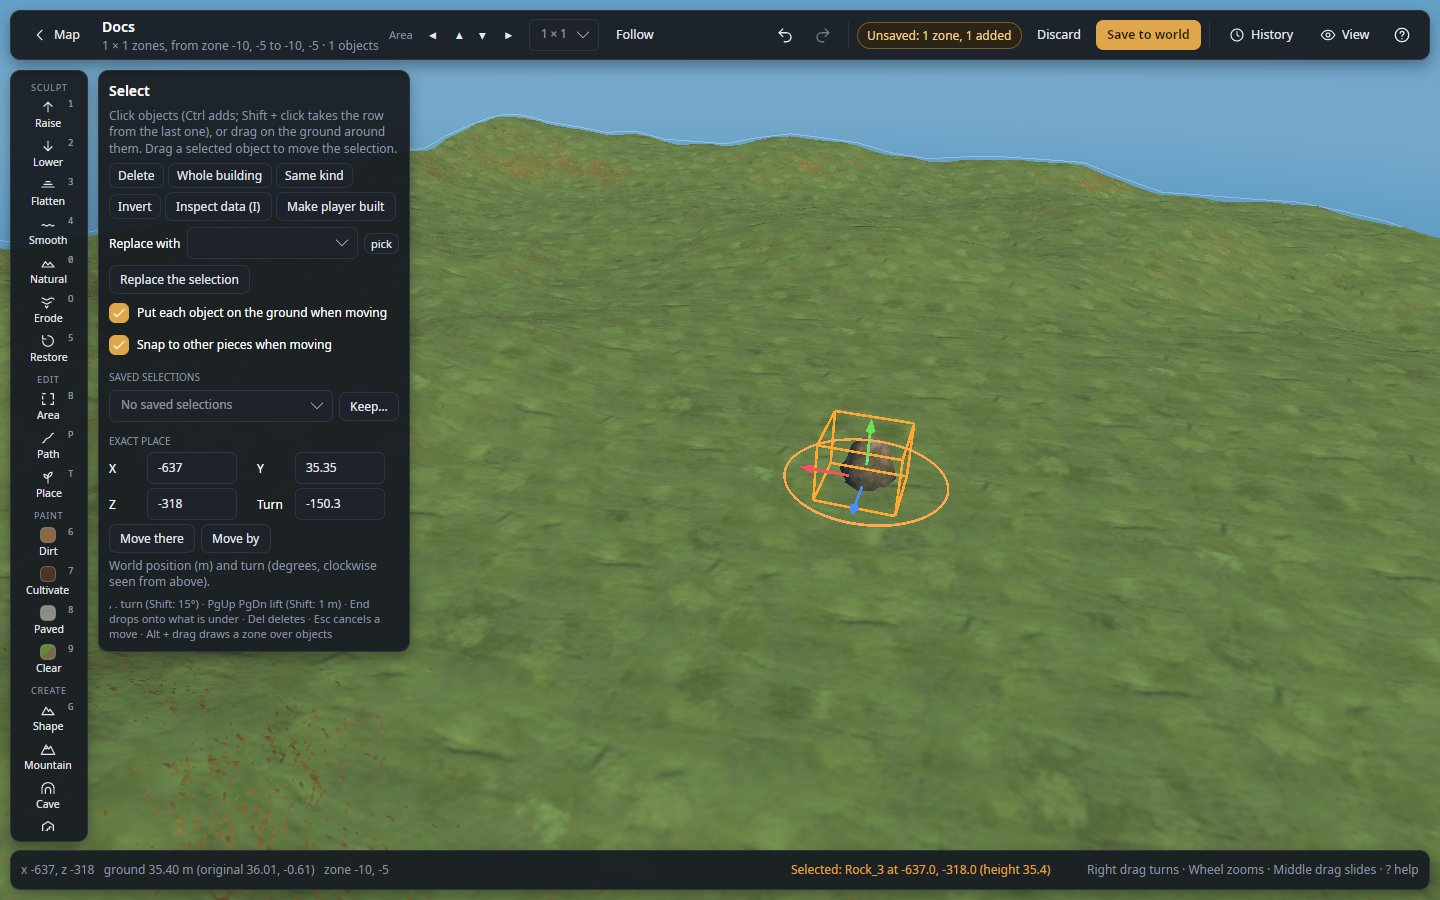
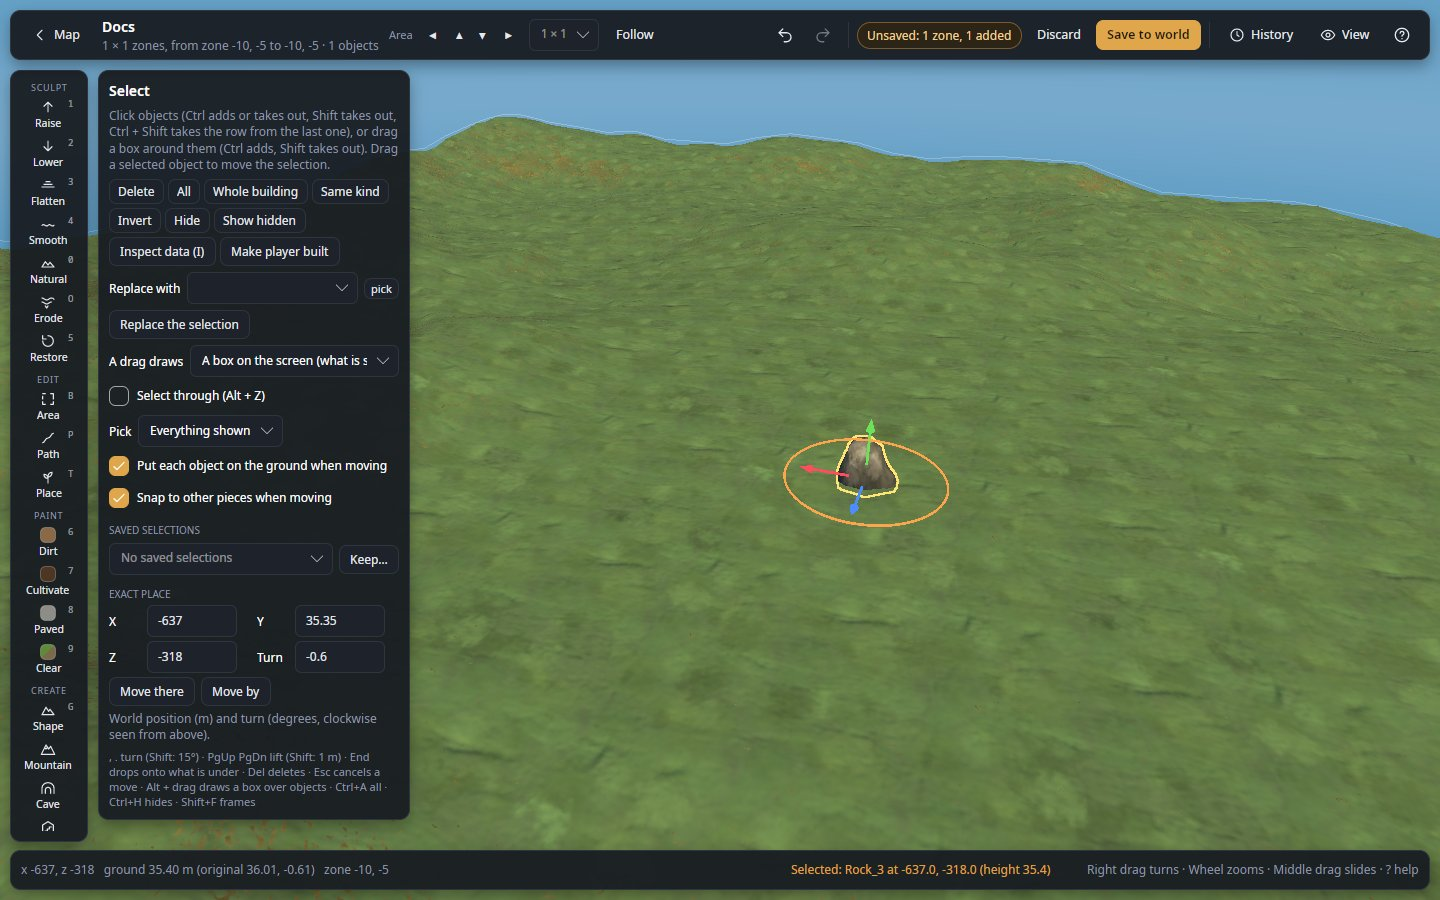
Document the reworked Select tool with new pictures (#473)
* Document the reworked Select tool with new pictures

Box, Select through, Pick, hiding and outline pictures replace the boxed ones; the panel's key hint names the box and the new keys.

* Run CI again (a New world test sharing global rules failed the last run)

Changed region(s): [[0.0625, 0.1244, 0.3125, 0.9333], [0.5625, 0.4356, 0.6562, 0.5911], [0.25, 0.4356, 0.2812, 0.4667]]

diff --git a/tools/DocsScreenshots/Scenes.Objects.cs b/tools/DocsScreenshots/Scenes.Objects.cs
@@ -251,15 +251,89 @@ public sealed partial class Scenes
         e.Shot(Out("select-building.jpg"), keepMessage: true);
     }
 
+    /// <summary>A hut with a chest and a fire pit inside, seen from above at an angle: the Select tool on.</summary>
+    private void HutInView(Editor e)
+    {
+        Bare(e, unsaved: false);
+        Level(e);
+        Hut(e, P(-6, -4), P(6, 4));
+        // On the floor: placed after it (Place puts them on what is under them), between its pieces' middles (One
+        // at a time keeps 0.3 m from any object).
+        Pieces(e);
+        Kinds(e, "piece_chest_wood");
+        Single(e, P(-4, 2));
+        Kinds(e, "fire_pit");
+        Single(e, P(-2, -2));
+        e.Send("check One at a time, exactly at the cursor|off");
+        e.Send("key E");
+        Camera(e, 6, 0, 200, 40, 30);
+        // A frame drawn with this camera: the mouse's points are read with the last frame's.
+        e.Send("wait 300");
+    }
+
     /// <summary>
-    /// select-zone-drawing.jpg and select-zone.jpg: a selection ring drawn with Alt around rocks and bushes, then the
-    /// selection it made.
+    /// select-box-drawing.jpg and select-box.jpg: a box drawn on the screen over the west half of the hut, then what it
+    /// took: the pieces seen inside it, the hut's other half left.
+    /// </summary>
+    private void SelectBox(Editor e)
+    {
+        HutInView(e);
+        // At this turn east is on the picture's left: the box goes from the hut's middle over its west half.
+        Drag(e, P(0, -8), P(-9, 8), mods: "alt", release: false);
+        e.Shot(Out("select-box-drawing.jpg"));
+        e.Send($"mouse up {P(-9, 8).X} {P(-9, 8).Z} left alt");
+        e.Send("wait 300");
+        e.Shot(Out("select-box.jpg"), keepMessage: true);
+    }
+
+    /// <summary>select-through.jpg: the same box with Select through on: what is behind the walls is taken too.</summary>
+    private void SelectThrough(Editor e)
+    {
+        HutInView(e);
+        e.Send("check Select through (Alt + Z)|on");
+        Drag(e, P(0, -8), P(-9, 8), mods: "alt");
+        e.Send("wait 300");
+        e.Shot(Out("select-through.jpg"), keepMessage: true);
+    }
+
+    /// <summary>
+    /// select-pick.jpg: Pick Built pieces only, a box over a hut among rocks, bushes and young trees: the hut alone.
+    /// </summary>
+    private void SelectPick(Editor e)
+    {
+        Bare(e, unsaved: false);
+        Level(e);
+        Trees(e, P(-14, -9), P(14, 9), density: 3, kinds: ["Rock_3", "Bush01", "Beech_small1"]);
+        Hut(e, P(-6, -4), P(6, 4));
+        e.Send("key E");
+        e.Send("choose Built pieces only");
+        Camera(e, 6, 0, 200, 55, 34);
+        e.Send("wait 300");
+        Drag(e, P(12, -10), P(-12, 10), mods: "alt");
+        e.Send("wait 300");
+        e.Shot(Out("select-pick.jpg"), keepMessage: true);
+    }
+
+    /// <summary>select-hide.jpg: the hut's west half boxed and hidden (Ctrl + H): the chest and fire pit inside show.</summary>
+    private void SelectHide(Editor e)
+    {
+        HutInView(e);
+        Drag(e, P(0, -8), P(-9, 8), mods: "alt");
+        e.Send("key H ctrl");
+        e.Send("wait 300");
+        e.Shot(Out("select-hide.jpg"), keepMessage: true);
+    }
+
+    /// <summary>
+    /// select-zone-drawing.jpg and select-zone.jpg: with "A drag draws: A zone on the ground", a selection ring drawn
+    /// with Alt around rocks and bushes, then the selection it made.
     /// </summary>
     private void SelectZone(Editor e)
     {
         Bare(e, unsaved: false);
         Trees(e, P(-20, -8), P(20, 8), density: 6, kinds: ["Rock_3", "Bush01", "Beech_small1", "RaspberryBush"]);
         e.Send("key E");
+        e.Send("choose A zone on the ground (all above it)");
         (double X, double Z)[] ring = [P(-12, -10), P(6, -12), P(14, -2), P(10, 10), P(-6, 12), P(-14, 2), P(-12, -9)];
         Path(e, ring, steps: 2, hold: 30, mods: "alt", release: false);
         Camera(e, 8, 0, 200, 48, 40);

diff --git a/tools/DocsScreenshots/Scenes.cs b/tools/DocsScreenshots/Scenes.cs
@@ -78,6 +78,10 @@ public sealed partial class Scenes
             // Select (select.md).
             ("select-arrows", SelectArrows),
             ("select-building", SelectBuilding),
+            ("select-box", SelectBox),
+            ("select-through", SelectThrough),
+            ("select-pick", SelectPick),
+            ("select-hide", SelectHide),
             ("select-zone", SelectZone),
             ("inspector", Inspector),
             // Dungeons (dungeons.md).

diff --git a/docs/select.md b/docs/select.md
@@ -5,8 +5,9 @@
 orange ring to turn it. The Select panel is on the left.*
 
 Pick objects (trees, rocks, building pieces, anything shown), then move, turn, lift, drop, copy, replace
-or delete them, or open one in the Inspector to see and change what it holds in the save. The object
-under the cursor is outlined faintly: that is the one a click picks.
+or delete them, or open one in the Inspector to see and change what it holds in the save. Selecting works
+like in Blender or a map editor: click, `Ctrl` + click to add, `Shift` + click to take out, or drag a box on the
+screen round what you see. The object under the cursor has a faint box: that is the one a click picks.
 
 Only objects that are shown can be picked: switch kinds on in the
 [View panel](editor-basics.md#view-panel) first. Runestones can be picked and deleted, but not moved,
@@ -17,7 +18,7 @@ deleting one removes that location for good (with the small levelling of the gro
 
 1. Press `E` (or **Select** in the rail's TOOLS section). From the **View** tool, a double click on an object
    also switches to Select with that object selected, its arrows and ring ready.
-2. Click an object, `Ctrl` + click more, or drag on empty ground around them.
+2. Click an object, `Ctrl` + click more, or drag a box on the screen around them.
 3. Drag a selected object, an arrow or the ring to move or turn the selection; or use the keys, the
    **EXACT PLACE** fields, or the panel's buttons.
 
@@ -26,35 +27,76 @@ until you **Save** (or **Apply live**).
 
 ## Selecting
 
+### Clicking
+
 | Action | What it does |
 |---|---|
-| **Click** an object | Selects it, and only it. An orange line round their shapes marks the selected objects, the last one clicked (the active one) in a lighter yellow, as in Blender; a blue box shows what is under the cursor. |
+| **Click** an object | Selects it, and only it. |
 | **Click again** at the same spot | Selects the next object behind the one selected there, then the next, and round again (a chest on a floor, the floor under it, the beam below), as in Unity. |
 | `Ctrl` + click | Adds an object to the selection, or takes it out when it is selected already. Dragging any selected object then moves them all together. |
 | `Shift` + click | Takes an object out of the selection. |
 | `Ctrl` + `Shift` + click | Adds the row from the last object clicked to this one: click wall 1, then `Ctrl` + `Shift` + click wall 3, and walls 1, 2 and 3 are selected (the objects on the line between them). |
-| **Drag on empty ground** | Draws a box on the screen; when you let go, the objects **seen** inside it are selected, not those hidden behind others or behind the ground. Look at a building from the side or from above to pick one floor, one wall or its roof. Dragged any way round. |
-| `Alt` + drag | Draws the box even when you start over an object (over a building, or in woods where trees cover the ground). |
-| **Pick** (Select panel) | What clicks, boxes and zones take: **Everything shown**, **Built pieces only** (a box over a house leaves its trees and rocks, and takes the walls behind a tree) or **Nature only** (trees, rocks, ore, bushes, pickables, remains). What is left out is still drawn. It applies to the Select tool and to the View tool's clicks; the other tools (the Place tool's **On top**, the eyedropper) pick every kind. |
-| **Select through** (Select panel) / `Alt` + `Z` | The box also takes what is hidden behind others inside it: the furniture inside a house, the wall behind another. Like Blender's X-ray. |
-| **A drag draws: A zone on the ground** (Select panel) | Drags draw an outline on the ground instead, and everything shown above it is selected, from the ground up, hidden or not. |
-| | A zone, **Same kind**, **Invert** and **Whole building** leave out anything more than 10 m under the ground: objects a mod hides there (crafting stations 10 km under a house) are not part of what stands above. |
-| `Ctrl` + drag | Adds what the box or the zone takes to the selection. |
-| `Shift` + drag | Takes what the box or the zone takes out of the selection. |
-| `Ctrl` + `A` / `Alt` + `A` / `Ctrl` + `I` (or **All**, **Invert**) | Selects every shown object / clears the selection / inverts it. |
-| `Ctrl` + `H` / `Alt` + `H` (or **Hide**, **Show hidden**) | Hides the selected objects in the view, to reach what they cover (inside a house: hide the roof); they are not drawn, picked or boxed, and nothing changes in the world. `Alt` + `H` shows them all again. |
-| `Shift` + `F` or Numpad `.` | Turns the camera onto the selection, close enough to see all of it (`F` alone switches the eye). |
-| **Click on empty ground** / `Esc` | Clears the selection (`Esc` first cancels a zone being drawn or a move in progress); with `Ctrl` or `Shift` held, a click on the ground keeps it. |
+| **Click on empty ground** / `Esc` | Clears the selection (`Esc` first cancels a box or zone being drawn, or a move in progress). With `Ctrl` or `Shift` held, a click on the ground keeps it. |
 | **Double-click a building piece** | Selects the whole building (see **Whole building** below). A chest (any container) is the exception: a double click selects it alone and opens it in the [Inspector](#inspecting-and-changing-an-objects-data). |
 | **Double-click a linked object's part** | Selects its whole [group](#linked-objects-ships-and-other-mods-groups) (a ship mod's vessel): its root and every part on it. |
 
+### A box on the screen
+
+A drag on empty ground draws a box on the screen. When you let go, the objects **seen** inside it are selected:
+not those hidden behind others or behind the ground. Turn the camera to choose what you take: from above, a
+building's floor and the tops of its walls; from the side, one wall; from the side and high, one storey.
+
+| Action | What it does |
+|---|---|
+| **Drag on empty ground** | Draws the box (any way round); what is seen inside it becomes the selection. |
+| `Alt` + drag | Draws the box even when you start over an object: over a building, or in woods where trees cover the ground. |
+| `Ctrl` + drag | Adds what the box takes to the selection. |
+| `Shift` + drag | Takes what the box takes out of the selection. |
+| **Select through** (Select panel) / `Alt` + `Z` | The box also takes what is hidden behind others inside it: the furniture inside a house, the wall behind another. Like Blender's X-ray. |
+| **Pick** (Select panel) | What clicks, boxes and zones take: **Everything shown**, **Built pieces only** (the pieces players built) or **Nature only** (trees, rocks, ore, bushes, pickables, remains). What is left out is still drawn, but neither taken nor in the way: with **Built pieces only**, a box takes the wall behind a tree. It applies to the Select tool and to the View tool's clicks; the other tools (the Place tool's **On top**, the eyedropper) pick every kind. |
+
+![Drawing a box over half a hut](images/select-box-drawing.jpg)
+*`Alt` + drag from the middle of a hut over its right half: the box is drawn on the screen.*
+
+![What the box took](images/select-box.jpg)
+*When you let go, what is seen inside the box is selected: 27 pieces, the walls, the floor showing between them
+and the fire pit. The floor and the chest hidden behind the near wall are left out.*
+
+![The same box with Select through](images/select-through.jpg)
+*The same box with **Select through** on: 33 pieces, the floor and the chest behind the near wall too.*
+
+![A box over a hut with Built pieces only](images/select-pick.jpg)
+***Pick: Built pieces only**, and a box over the whole hut among rocks, bushes and young trees: the hut's 58 pieces
+alone, none of what grows around it.*
+
+### A zone on the ground
+
+With **A drag draws: A zone on the ground** chosen in the Select panel, a drag draws an outline on the ground
+instead, and everything shown above it is selected, from the ground up, hidden or not: the objects whose position
+(their origin, where they stand) is inside it. `Alt`, `Ctrl` and `Shift` work as for the box.
+
 ![Drawing a selection zone with Alt + drag](images/select-zone-drawing.jpg)
-*With **A drag draws: A zone on the ground**, `Alt` + drag round rocks and bushes: the zone is drawn even though the
-drag started on a bush.*
+*`Alt` + drag round rocks and bushes: the zone is drawn even though the drag started on a bush.*
 
 ![The selection the zone made](images/select-zone.jpg)
-*When you let go, everything shown inside is selected, with one box round it all, and **EXACT PLACE** shows where
-the selection is.*
+*When you let go, everything shown inside is selected, and **EXACT PLACE** shows where the selection is.*
+
+Boxes, zones, **All**, **Same kind**, **Invert** and **Whole building** leave out anything more than 10 m under
+the ground: objects a mod hides there (crafting stations 10 km under a house) are not part of what stands above.
+
+### Keys, hiding and framing
+
+| Keys (or button) | What it does |
+|---|---|
+| `Ctrl` + `A` (**All**) | Selects every shown object. |
+| `Alt` + `A` | Clears the selection. |
+| `Ctrl` + `I` (**Invert**) | Selects every shown object that is not selected, and only those. |
+| `Ctrl` + `H` (**Hide**) | Hides the selected objects in the view, to reach what they cover. They are not drawn, picked or selected, and nothing changes in the world. |
+| `Alt` + `H` (**Show hidden**) | Shows every hidden object again. Opening another area forgets what was hidden. |
+| `Shift` + `F` or Numpad `.` | Turns the camera onto the selection, close enough to see all of it (`F` alone switches the eye). |
+
+![Half a hut hidden](images/select-hide.jpg)
+*The hut's right half boxed, then `Ctrl` + `H`: the chest inside shows. `Alt` + `H` brings the walls back.*
 
 ### How a click finds an object
 
@@ -71,16 +113,16 @@ the selection is.*
   Logs and stumps keep their box.
 - An object whose model is not loaded yet is picked by its box.
 
-A zone on the ground selects the objects whose position (their origin, where they stand) is inside it. A box on
-the screen selects what a click would find at its points (every 3 pixels, more apart in a big box), so an object
-counts as soon as a part of it is seen inside.
+A box on the screen selects what a click would find at its points (every 3 pixels, more apart in a big box), so
+an object counts as soon as a part of it is seen inside.
 
 ### How the selection shows
 
 An orange line follows the outer shape of the selected objects, seen through whatever is in front of them: a
 selected building is one clean outline, not a tangle of boxes, and a part of it (a floor, a wall) shows its own
-shape. The active object, the last one clicked while it stays selected, is outlined in a lighter yellow. An object
-whose model is still being read is marked by a thin box until it is drawn.
+shape. The active object, the last one clicked while it stays selected, is outlined in a lighter yellow (the rock
+at the top of this page). Selected objects lose their green unsaved dot while they are selected. An object whose
+model is still being read is marked by a thin box until it is drawn.
 
 ### Panel buttons
 
@@ -88,8 +130,10 @@ whose model is still being read is marked by a thin box until it is drawn.
 |---|---|
 | **Delete** (`Del`) | Removes the selected objects. `Ctrl+Z` brings them back; they leave the world when it is saved. |
 | **Whole building** | Adds every building piece connected to the selected pieces through pieces that touch: walls, floors, roofs, beams... Each piece's box is grown by 15 cm; boxes that overlap are connected. Pieces standing apart are not taken. |
+| **All** (`Ctrl` + `A`) | Selects every shown object in the area. |
 | **Same kind** | Selects every shown object in the area of the kinds selected now (select one beech, then all the beeches). |
-| **Invert** | Selects every shown object in the area that is not selected now, and only those. |
+| **Invert** (`Ctrl` + `I`) | Selects every shown object in the area that is not selected now, and only those. |
+| **Hide** (`Ctrl` + `H`) / **Show hidden** (`Alt` + `H`) | Hides the selected objects in the view / shows them again (see [Keys, hiding and framing](#keys-hiding-and-framing)). |
 | **Inspect data (I)** | Opens the [Inspector](#inspecting-and-changing-an-objects-data) on the one selected object. |
 | **Make player built** | See [Other actions](#other-actions). |
 

diff --git a/docs/editor-basics.md b/docs/editor-basics.md
@@ -154,7 +154,7 @@ Once you saved, the counts are what differs from that save: an undo after a save
 *Each new tree carries a green dot until it is saved; the status bar says what the last action did.*
 
 In the view, every new object not saved (or applied) yet carries a **green dot**, except while it is selected: the
-selection's box marks it then, and its dot comes back once you select something else. **View → Unsaved marks** hides
+selection's outline marks it then, and its dot comes back once you select something else. **View → Unsaved marks** hides
 the dots (the objects stay).
 
 ## Saving and discarding
